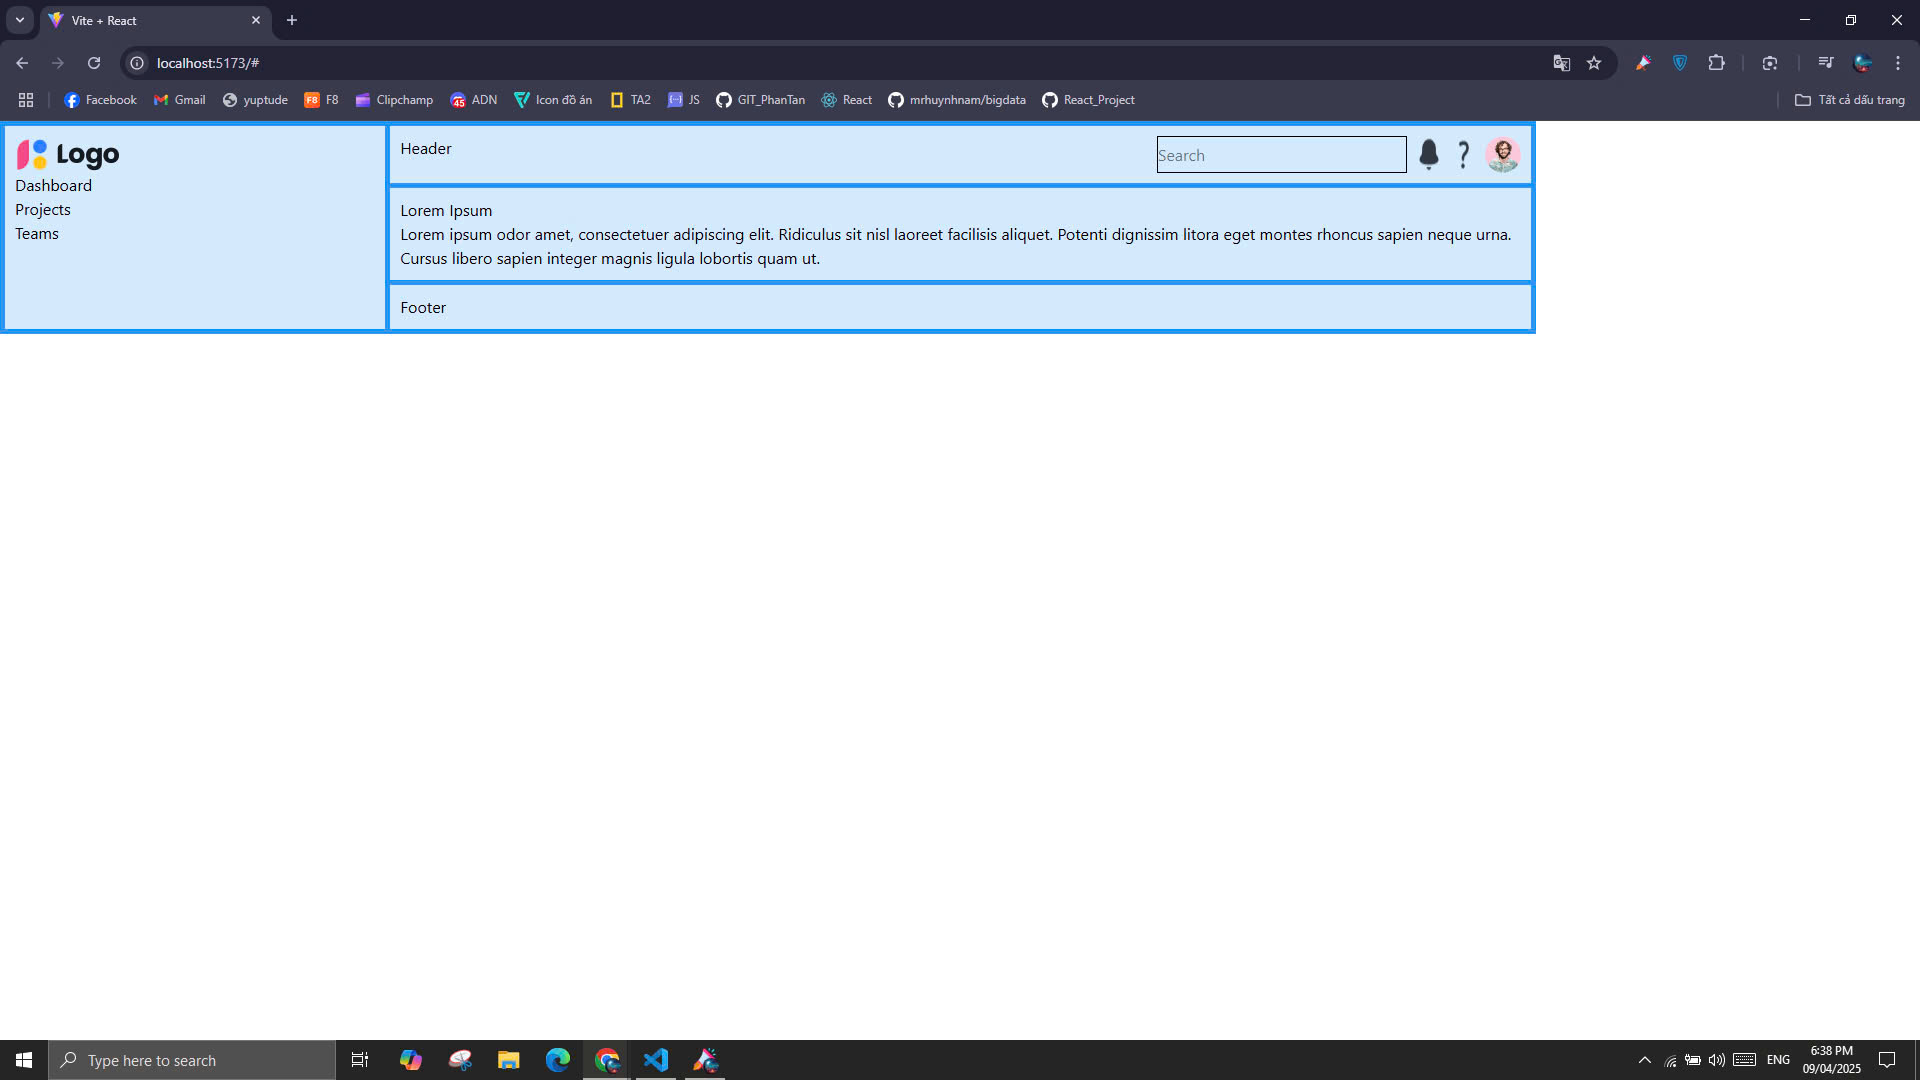
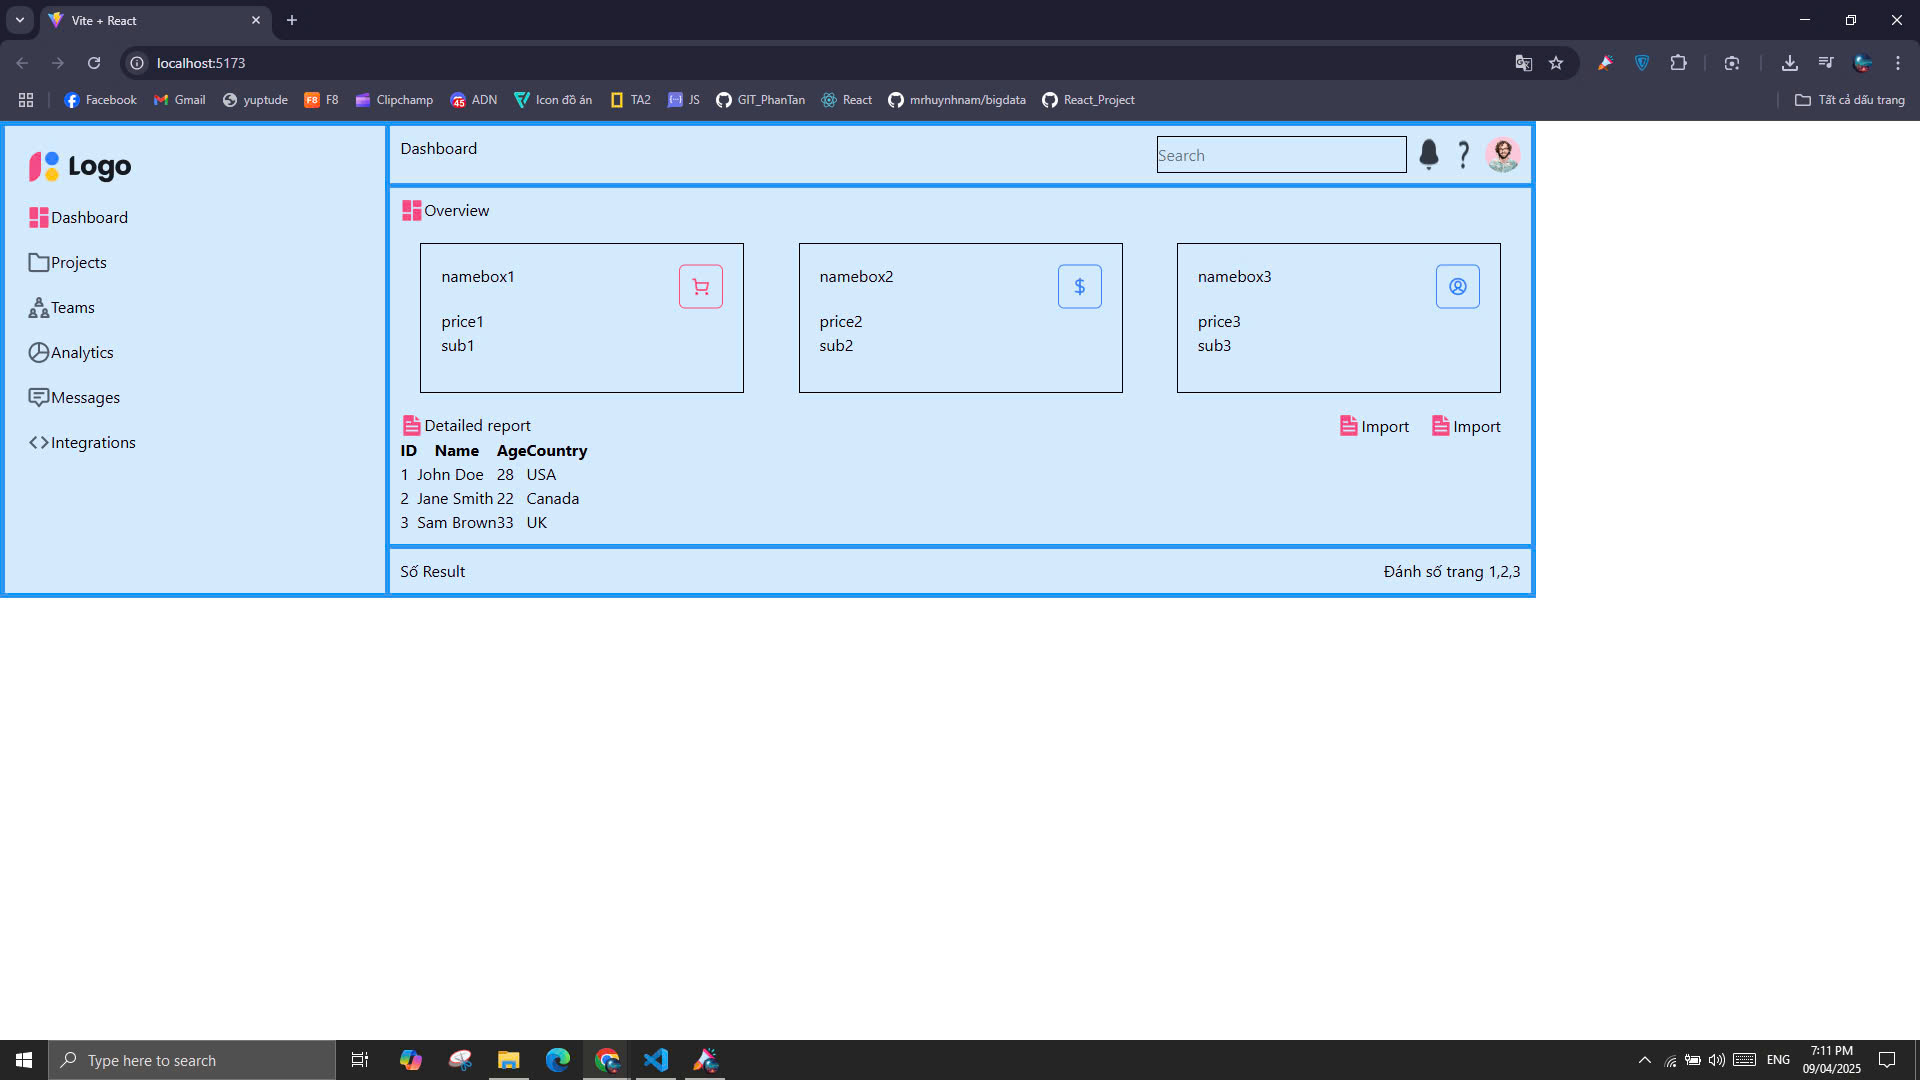
1. Layout (grid tailwind)

diff --git a/lab6_fix/src/components/Layout.jsx b/lab6_fix/src/components/Layout.jsx
@@ -1,42 +1,173 @@
 import '../components/Layout.css'
- import logo from '../img/logo.png'
- import bell from '../img/Bell 1.png'
- import question from '../img/Question 1.png'
- import avatar from '../img/Avatar 313.png'
- 
- const Layout = () => {
-     return (
-         <div>
-             
-             <div className="container flex justify-center">
-                 <div className="header flex justify-between">
- 
-                     <h2 className='flex mr-96'>Dashboard</h2>
- 
-                     <div className='flex gap-2.5'>
-                     <input className='' style={{border: "1px solid black", width: "250px"}} type="text" name="" id=""  placeholder='Search'/>
-                     <img src={bell} alt="" />
-                     <img src={question} alt="" />
-                     <img src={avatar} alt="" />
- 
- 
-                     </div>
-                    
-                     </div>
-                 <div className="menu">
-                     <img src={logo} alt="" />
-                     <a href="#">Dashboard</a><br />
-                     <a href="#">Projects</a><br />
-                     <a href="#">Teams</a> <br />
-                 </div>
-                 <div className="content">
-                     <h3>Lorem Ipsum</h3>
-                     <p>Lorem ipsum odor amet, consectetuer adipiscing elit. Ridiculus sit nisl laoreet facilisis aliquet. Potenti dignissim litora eget montes rhoncus sapien neque urna. Cursus libero sapien integer magnis ligula lobortis quam ut.</p>
-                 </div>
-                 <div className="footer"><h4>Footer</h4></div>
-             </div>
-         </div>
-     )
- }
- 
- export default Layout
+import logo from '../img/logo.png'
+import bell from '../img/Bell 1.png'
+import question from '../img/Question 1.png'
+import avatar from '../img/Avatar 313.png'
+import iconOverview from '../img/Squares four 1.png'
+import iconCart from '../img/Button 1509.png'
+import iconMoney from '../img/Button 1529.png'
+import iconAccount from '../img/Button 1530.png'
+import iconFile from '../img/File text 1.png'
+import iconFolder from '../img/Folder.png'
+import iconGroup from '../img/Groups.png'
+import iconPie from '../img/Pie chart.png'
+import iconChat from '../img/Chat.png'
+import iconCode from '../img/Code.png'
+const Layout = () => {
+    return (
+        <div>
+
+            <div className="container flex justify-center">
+                <div className="header flex justify-between">
+
+                    <h2 className='flex mr-96'>Dashboard</h2>
+
+                    <div className='flex gap-2.5'>
+                        <input className='' style={{ border: "1px solid black", width: "250px" }} type="text" name="" id="" placeholder='Search' />
+                        <img src={bell} alt="" />
+                        <img src={question} alt="" />
+                        <img src={avatar} alt="" />
+                    </div>
+
+                </div>
+                <div className="menu ">
+                    <div className='p-3 '>
+                        <img className='mb-5' src={logo} alt="" />
+
+                        <div className='Dashboard flex mb-5'>
+                            <img src={iconOverview} alt="" />
+                            <a href="#">Dashboard</a><br />
+                        </div>
+
+
+                        <div className='Projects flex mb-5'>
+                            <img src={iconFolder} alt="" />
+                            <a href="#">Projects</a><br />
+                        </div>
+                        <div className='Teams flex mb-5'>
+                            <img src={iconGroup} alt="" />
+                            <a href="#">Teams</a><br />
+                        </div>
+                        <div className='Analytics flex mb-5'>
+                            <img src={iconPie} alt="" />
+                            <a href="#">Analytics</a><br />
+                        </div>
+                        <div className='Messages flex mb-5'>
+                            <img src={iconChat} alt="" />
+                            <a href="#">Messages</a><br />
+                        </div>
+                        <div className='Integrations flex mb-5'>
+                            <img src={iconCode} alt="" />
+                            <a href="#">Integrations</a><br />
+                        </div>
+                    </div>
+
+                    <div className=''>
+
+                    </div>
+
+                </div>
+                <div className="content">
+
+                    <div className='flex'>
+                        <img src={iconOverview} alt="" />
+                        <h1>Overview</h1>
+                    </div>
+
+                    <div className='box flex p-5 justify-between'>
+                        <div className="box1 p-5">
+                            <div className="head flex justify-between ">
+                                <p>namebox1</p>
+                                <img src={iconCart} alt="" />
+                            </div>
+                            <p>price1</p>
+                            <p>sub1</p>
+                        </div>
+
+                        <div className="box2 p-5">
+                            <div className="head flex justify-between ">
+                                <p>namebox2</p>
+                                <img src={iconMoney} alt="" />
+                            </div>
+                            <p>price2</p>
+                            <p>sub2</p>
+                        </div>
+
+                        <div className="box3 p-5">
+                            <div className="head flex justify-between ">
+                                <p>namebox3</p>
+                                <img src={iconAccount} alt="" />
+                            </div>
+                            <p>price3</p>
+                            <p>sub3</p>
+                        </div>
+
+                    </div>
+
+                    <div className='flex  justify-between'>
+                        <div className='flex'>
+                            <img src={iconFile} alt="" />
+                            <h1>Detailed report</h1>
+                        </div>
+
+                        <div className='iconCha flex gap-5 mr-5'>
+                            <div className='icon flex'>
+                                <img src={iconFile} alt="" />
+                                <button>Import</button>
+                            </div>
+
+                            <div className='icon flex'>
+                                <img src={iconFile} alt="" />
+                                <button>Import</button>
+                            </div>
+
+                        </div>
+
+
+
+                    </div>
+
+                    <div className="table-container   ">
+                        <table className="my-table ">
+                            <thead>
+                                <tr>
+                                    <th>ID</th>
+                                    <th>Name</th>
+                                    <th>Age</th>
+                                    <th>Country</th>
+                                </tr>
+                            </thead>
+                            <tbody>
+                                <tr>
+                                    <td>1</td>
+                                    <td>John Doe</td>
+                                    <td>28</td>
+                                    <td>USA</td>
+                                </tr>
+                                <tr>
+                                    <td>2</td>
+                                    <td>Jane Smith</td>
+                                    <td>22</td>
+                                    <td>Canada</td>
+                                </tr>
+                                <tr>
+                                    <td>3</td>
+                                    <td>Sam Brown</td>
+                                    <td>33</td>
+                                    <td>UK</td>
+                                </tr>
+                            </tbody>
+                        </table>
+                    </div>
+                </div>
+                <div className="footer flex justify-between">
+                    <h4>Số Result</h4>
+                    <h4>Đánh số trang 1,2,3</h4>
+
+                </div>
+            </div>
+        </div>
+    )
+}
+
+export default Layout

diff --git a/lab6_fix/src/components/Layout.css b/lab6_fix/src/components/Layout.css
@@ -26,3 +26,10 @@
   .container > div.footer {
     grid-area: footer;
   }
+.box > .box1,
+.box2,
+.box3 {
+    width: 30%;
+    height: 150px;
+    border: 1px solid black;
+}
